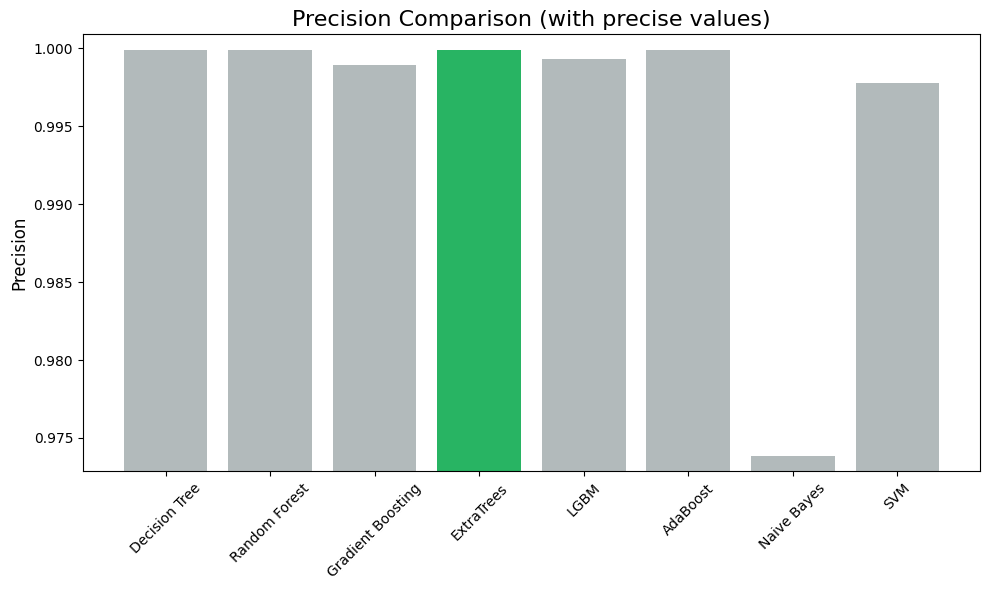
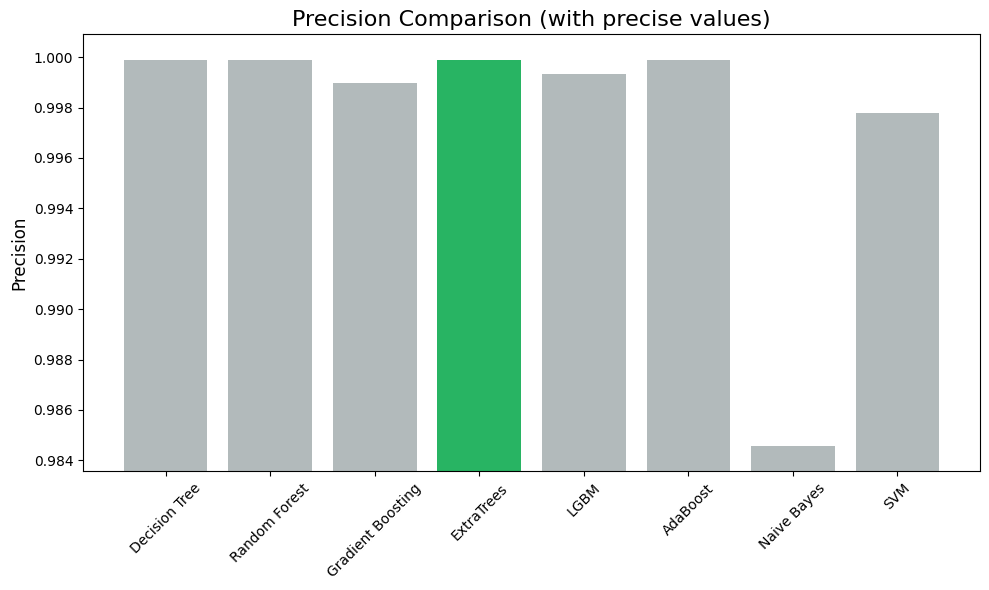
main

diff --git a/Core/main.py b/Core/main.py
@@ -6,16 +6,18 @@ import pandas as pd
 import seaborn as sns
 import lightgbm as lgb
 import matplotlib.pyplot as plt
+from sklearn.svm import LinearSVC
+from sklearn.naive_bayes import GaussianNB
+from sklearn.naive_bayes import BernoulliNB
+from sklearn.naive_bayes import MultinomialNB
 from sklearn.preprocessing import MinMaxScaler
 from sklearn.preprocessing import LabelEncoder
+from sklearn.neighbors import KNeighborsClassifier
 from sklearn.model_selection import train_test_split
 from sklearn.tree import export_text, plot_tree, DecisionTreeClassifier
 from sklearn.metrics import accuracy_score, recall_score, precision_score, f1_score
 from sklearn.ensemble import RandomForestClassifier, AdaBoostClassifier, GradientBoostingClassifier, ExtraTreesClassifier
 
-from sklearn.naive_bayes import GaussianNB
-from sklearn.neighbors import KNeighborsClassifier
-from sklearn.svm import LinearSVC
 
 current_dir = os.path.dirname(__file__)
 type = os.path.join(current_dir, 'training_attack_types.txt')
@@ -28,6 +30,7 @@ drop = [
     'dst_host_rerror_rate', 'dst_host_srv_rerror_rate', 
     'dst_host_same_srv_rate'
 ]
+
 
 class PD:
     def __init__(self, drop, path, type, name, file):
@@ -154,6 +157,7 @@ class PD:
     def start(self):
         return self.ppd()
 
+
 class ML:
     def __init__(self, path, model, test_size=0.3, random_state=42, pathrules="rules.txt", pathtree="tree.svg"):
         self.path = path
@@ -258,6 +262,7 @@ class ML:
         print(f'Recall: {R["recall"]}')
         print(f'F1 Score: {R["f1"]}')
 
+
 def main():
     PData = PD(drop, "temp/", type, name, file)
     df = PData.start()
@@ -329,12 +334,37 @@ def main():
     
     Name = "Naive Bayes"
     print(f'N: {Name}')
-    NB = GaussianNB(var_smoothing=1e-9)
-    detector = ML("temp/result/" ,NB)
-    detector.load(df)
-    detector.train()
-    R = detector.evaluate()
-    detector.result(R)
+    smoothing_values = [1e-12, 1e-10, 1e-9, 1e-8, 1e-7]
+    for var_smoothing in smoothing_values:
+        print(f"T GaussianNB with var_smoothing={var_smoothing}")
+        NB = GaussianNB(var_smoothing=var_smoothing)
+        detector = ML("temp/result/", NB)
+        detector.load(df)
+        detector.train()
+        R = detector.evaluate()
+        detector.result(R)
+        
+    alpha_values = [0.1, 0.5, 1.0]
+    for alpha in alpha_values:
+        print(f'T MultinomialNB with alpha={alpha}')
+        NB = MultinomialNB(alpha=alpha, fit_prior=True)
+        detector = ML("temp/result/", NB)
+        detector.load(df)
+        detector.train()
+        R = detector.evaluate()
+        detector.result(R)
+        
+    alpha_values = [0.1, 0.5, 1.0]
+    binarize_values = [0.0, 0.5, 1.0]
+    for alpha in alpha_values:
+        for binarize in binarize_values:
+            print(f'T BernoulliNB with alpha={alpha} and binarize={binarize}')
+            NB = BernoulliNB(alpha=alpha, binarize=binarize, fit_prior=True)
+            detector = ML("temp/result/", NB)
+            detector.load(df)
+            detector.train()
+            R = detector.evaluate()
+            detector.result(R)
     
     Name = "K-Nearest Neighbors"
     print(f'N: {Name}')
@@ -347,12 +377,17 @@ def main():
 
     Name = "Support Vector Machine"
     print(f'N: {Name}')
-    SVM = LinearSVC(random_state=7)
-    detector = ML("temp/result/" ,SVM)
-    detector.load(df)
-    detector.train()
-    R = detector.evaluate()
-    detector.result(R)
+    C_values = [0.01, 0.1, 1, 10]
+    loss_types = ['hinge', 'squared_hinge']
+    for C in C_values:
+        for loss in loss_types:
+            print(f"T LinearSVC with C={C} and loss={loss}")
+            SVM = LinearSVC(C=C, loss=loss, random_state=7)
+            detector = ML("temp/result/", SVM)
+            detector.load(df)
+            detector.train()
+            R = detector.evaluate()
+            detector.result(R)
     
 if __name__ == '__main__':
     main()

diff --git a/Core/README.md b/Core/README.md
@@ -334,12 +334,97 @@ F1 Score: 0.9975072032106187
 
 ```
 N: Naive Bayes
-Time T: 3.402211904525757 seconds
-Time E: 0.9911878108978271 seconds
+T GaussianNB with var_smoothing=1e-12
+Accuracy: 0.9005824991664001
+Precision: 0.9747067429369859
+Recall: 0.9005824991664001
+F1 Score: 0.9194422167407917
+T GaussianNB with var_smoothing=1e-10
+Accuracy: 0.922369056773254
+Precision: 0.97444224128868
+Recall: 0.922369056773254
+F1 Score: 0.9371435280643936
+T GaussianNB with var_smoothing=1e-09
 Accuracy: 0.9237062189951889
 Precision: 0.9738448482837682
 Recall: 0.9237062189951889
 F1 Score: 0.9378657452203033
+T GaussianNB with var_smoothing=1e-08
+Accuracy: 0.9267997250821691
+Precision: 0.9727911587155363
+Recall: 0.9267997250821691
+F1 Score: 0.9396781068244757
+T GaussianNB with var_smoothing=1e-07
+Accuracy: 0.930869733860486
+Precision: 0.9727934077771727
+Recall: 0.930869733860486
+F1 Score: 0.9426667749606493
+```
+
+```
+T MultinomialNB with alpha=0.1
+Accuracy: 0.9851864201479384
+Precision: 0.9845573746166282
+Recall: 0.9851864201479384
+F1 Score: 0.9847484669375417
+T MultinomialNB with alpha=0.5
+Accuracy: 0.9851734908440114
+Precision: 0.9845433917542532
+Recall: 0.9851734908440114
+F1 Score: 0.9847348272192716
+T MultinomialNB with alpha=1.0
+Accuracy: 0.9851680469265683
+Precision: 0.9845379026300224
+Recall: 0.9851680469265683
+F1 Score: 0.9847293452496197
+```
+
+```
+T BernoulliNB with alpha=0.1 and binarize=0.0
+Accuracy: 0.9677890209794968
+Precision: 0.9772335211181693
+Recall: 0.9677890209794968
+F1 Score: 0.9716703069368696
+T BernoulliNB with alpha=0.1 and binarize=0.5
+Accuracy: 0.9579491402012889
+Precision: 0.9885179024668156
+Recall: 0.9579491402012889
+F1 Score: 0.9711470271629473
+T BernoulliNB with alpha=0.1 and binarize=1.0
+Accuracy: 0.7926786115288562
+Precision: 0.6283393811753153
+Recall: 0.7926786115288562
+F1 Score: 0.7010061671226685
+T BernoulliNB with alpha=0.5 and binarize=0.0
+Accuracy: 0.9677849380414146
+Precision: 0.9772329822177899
+Recall: 0.9677849380414146
+F1 Score: 0.9716680864302984
+T BernoulliNB with alpha=0.5 and binarize=0.5
+Accuracy: 0.9579491402012889
+Precision: 0.9885179024668156
+Recall: 0.9579491402012889
+F1 Score: 0.9711470271629473
+T BernoulliNB with alpha=0.5 and binarize=1.0
+Accuracy: 0.7926786115288562
+Precision: 0.6283393811753153
+Recall: 0.7926786115288562
+F1 Score: 0.7010061671226685
+T BernoulliNB with alpha=1.0 and binarize=0.0
+Accuracy: 0.9677978673453417
+Precision: 0.9772333839635563
+Recall: 0.9677978673453417
+F1 Score: 0.9716755899416142
+T BernoulliNB with alpha=1.0 and binarize=0.5
+Accuracy: 0.9579450572632066
+Precision: 0.9885232212188091
+Recall: 0.9579450572632066
+F1 Score: 0.9711461845824902
+T BernoulliNB with alpha=1.0 and binarize=1.0
+Accuracy: 0.7926786115288562
+Precision: 0.6283393811753153
+Recall: 0.7926786115288562
+F1 Score: 0.7010061671226685
 ```
 
 <p align="justify">شکل 3-7-2 نتایج نهایی Naive Bayes را ارائه میدهد که شامل زمانهای آموزش و ارزیابی و همچنین مقادیر معیارهای کلیدی مانند Accuracy، Precision، Recall و F1 Score است. این نتایج نشان میدهند که مدل با دقت کلی Accuracy برابر با 0.9237 عملکرد مناسبی در طبقهبندی دادهها داشته و توانسته 92.37 درصد از نمونهها را بهدرستی دستهبندی کند. علاوه بر این، مقدار Precision برابر با 0.9738 حاکی از آن است که مدل در پیشبینی نمونههای مثبت دقت بالایی داشته و تقریبا 97.38 درصد از پیشبینیهای مثبت، صحیح بودهاند. در همین راستا، مقدار Recall برابر با 0.9237 بیانگر این است که مدل توانسته است 92.37 درصد از کل نمونههای مثبت واقعی را بهدرستی شناسایی کند. ترکیب این دو معیار با استفاده از F1 Score که برابر با 0.9379 محاسبه شده است، نشاندهنده تعادلی مطلوب بین Precision و Recall میباشد. در کنار این شاخصهای عملکردی، آموزش مدل در مدتزمان تقریبا 3.40 ثانیه به پایان رسیده و ارزیابی آن تنها 0.99 ثانیه زمان برده است، که نشاندهنده سرعت بالای الگوریتم در کنار دقت قابلقبول آن است.</p>
@@ -370,12 +455,46 @@ F1 Score: 0.9990322603495262
 
 ```
 N: Support Vector Machine
-Time T: 31.300721883773804 seconds
-Time E: 0.10045170783996582 seconds
-Accuracy: 0.997904091784448
-Precision: 0.9977655221930433
-Recall: 0.997904091784448
-F1 Score: 0.9977935769167633
+T LinearSVC with C=0.01 and loss=hinge
+Accuracy: 0.9978319598783284
+Precision: 0.9975940862572193
+Recall: 0.9978319598783284
+F1 Score: 0.9976877315649549
+T LinearSVC with C=0.01 and loss=squared_hinge
+Accuracy: 0.9978598599552237
+Precision: 0.9976222885099298
+Recall: 0.9978598599552237
+F1 Score: 0.9977163632369063
+T LinearSVC with C=0.1 and loss=hinge
+Accuracy: 0.9979646553660014
+Precision: 0.9977355744195694
+Recall: 0.9979646553660014
+F1 Score: 0.9978263240583838
+T LinearSVC with C=0.1 and loss=squared_hinge
+Accuracy: 0.9978918429702014
+Precision: 0.997665309081877
+Recall: 0.9978918429702014
+F1 Score: 0.9977541505579351
+T LinearSVC with C=1 and loss=hinge
+Accuracy: 0.9979830285873714
+Precision: 0.9977732386674766
+Recall: 0.9979830285873714
+F1 Score: 0.997851471593477
+T LinearSVC with C=1 and loss=squared_hinge
+Accuracy: 0.9979054527638088
+Precision: 0.9977665746007363
+Recall: 0.9979054527638088
+F1 Score: 0.9977952131440807
+T LinearSVC with C=10 and loss=hinge
+Accuracy: 0.998277000129293
+Precision: 0.9981208594759935
+Recall: 0.998277000129293
+F1 Score: 0.9981739313524268
+T LinearSVC with C=10 and loss=squared_hinge
+Accuracy: 0.9979319918613434
+Precision: 0.9978206725674937
+Recall: 0.9979319918613434
+F1 Score: 0.9978361214128492
 ```
 
 <p align="justify">شکل 3-9-2 نتایج نهایی Support Vector Machine (SVM) را ارائه میدهد که شامل زمان آموزش، زمان ارزیابی و شاخصهای عملکردی نظیر Accuracy، Precision، Recall و F1 Score است. بر اساس این نتایج، SVM با دستیابی به دقت برابر با 0.9979 توانسته 99.79 درصد از نمونهها را بهدرستی طبقهبندی کند، که بیانگر عملکرد بسیار مطلوب این مدل است. شاخص Precision با مقدار 0.9978 نشان میدهد که تقریبا تمامی نمونههایی که بهعنوان مثبت پیشبینی شدهاند، بهدرستی مثبت بودهاند. بهطور مشابه، مقدار Recall برابر با 0.9979 نشاندهنده توانایی بالای مدل در شناسایی نمونههای مثبت واقعی است. شاخصF1 Score نیز با مقدار 0.9978 تعادل بسیار خوبی میان Precision و Recall ایجاد کرده است و نشان میدهد که مدل بهخوبی توانسته میان نرخ شناسایی صحیح و کاهش خطاهای مثبت و منفی توازن برقرار کند. از نظر زمانبندی، زمان آموزش مدل حدود 31.30 ثانیه بوده است که نشاندهنده زمان نسبتا طولانی در فرآیند یادگیری است. با این حال، زمان ارزیابی مدل تنها 0.10 ثانیه گزارش شده است، که نشاندهنده سرعت بسیار بالای الگوریتم در انجام پیشبینیها است.</p>
@@ -396,8 +515,8 @@ F1 Score: 0.9977935769167633
 | 0.9989115344497957 | 0.9989604960149849 | 0.998917340918525  | 0.998917340918525  | Gradient Boosting      |
 | 0.9999055296259387 | 0.9999062195382273 | 0.9999074534034691 | 0.9999074534034691 | Extra Trees            |
 | 0.9975072032106187 | 0.9993262413423575 | 0.9957843664300831 | 0.9957843664300831 | LGBM                   |
-| 0.9378657452203033 | 0.9738448482837682 | 0.9237062189951889 | 0.9237062189951889 | Naive Bayes            |
-| 0.9977935769167633 | 0.9977655221930433 | 0.997904091784448  | 0.997904091784448  | Support Vector Machine |
+| 0.9847484669375417 | 0.9845573746166282 | 0.9851864201479384 | 0.9851864201479384 | Naive Bayes            |
+| 0.9981739313524268 | 0.9981208594759935 | 0.998277000129293  | 0.998277000129293  | Support Vector Machine |
 
 </br>
 
